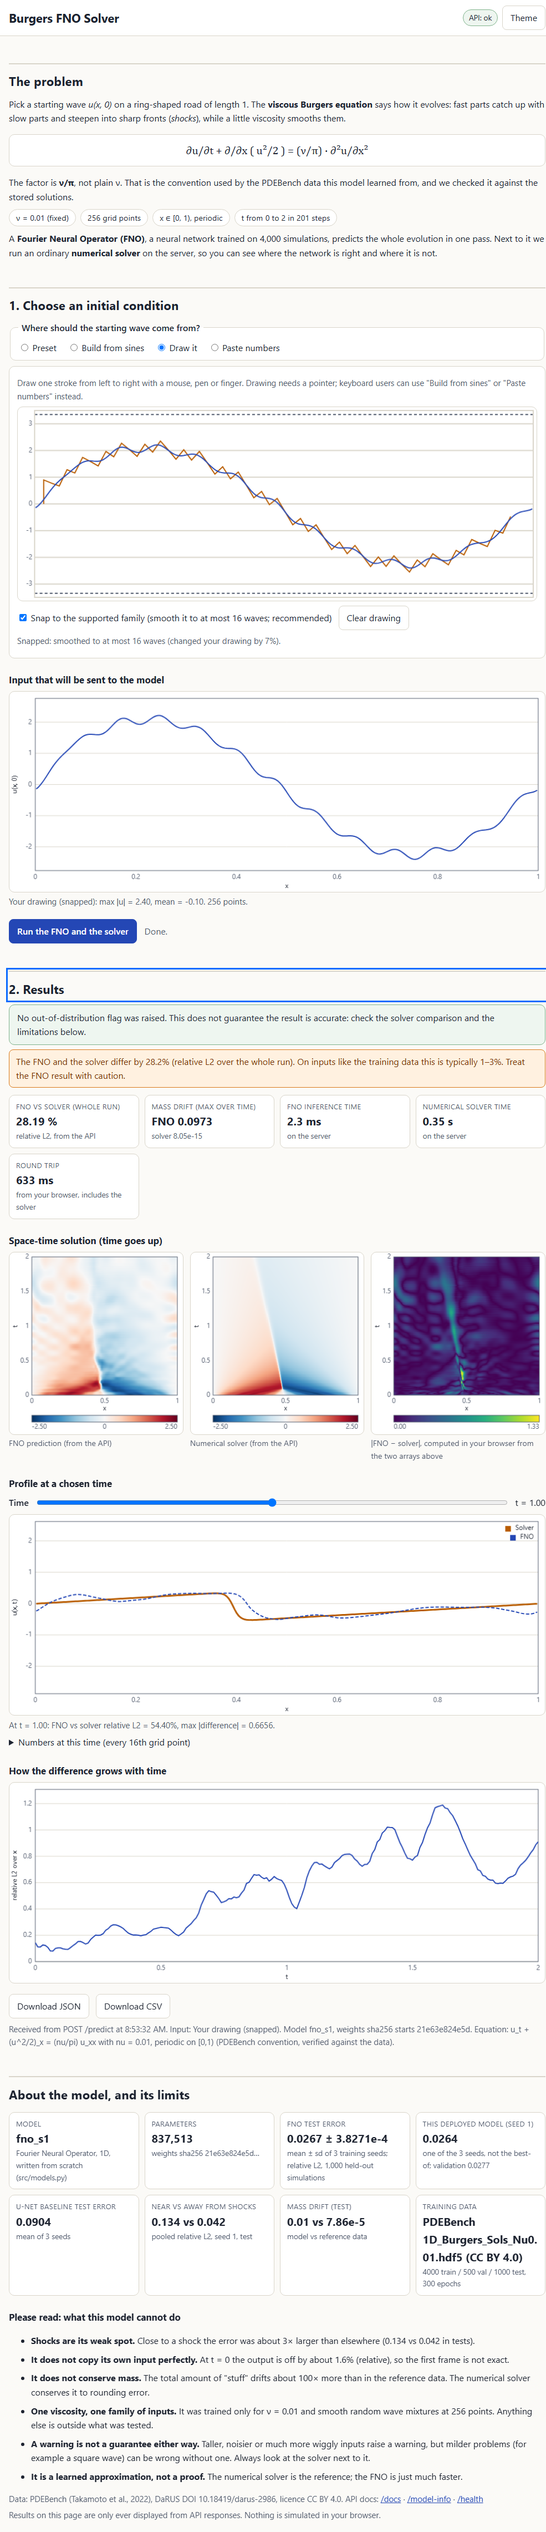
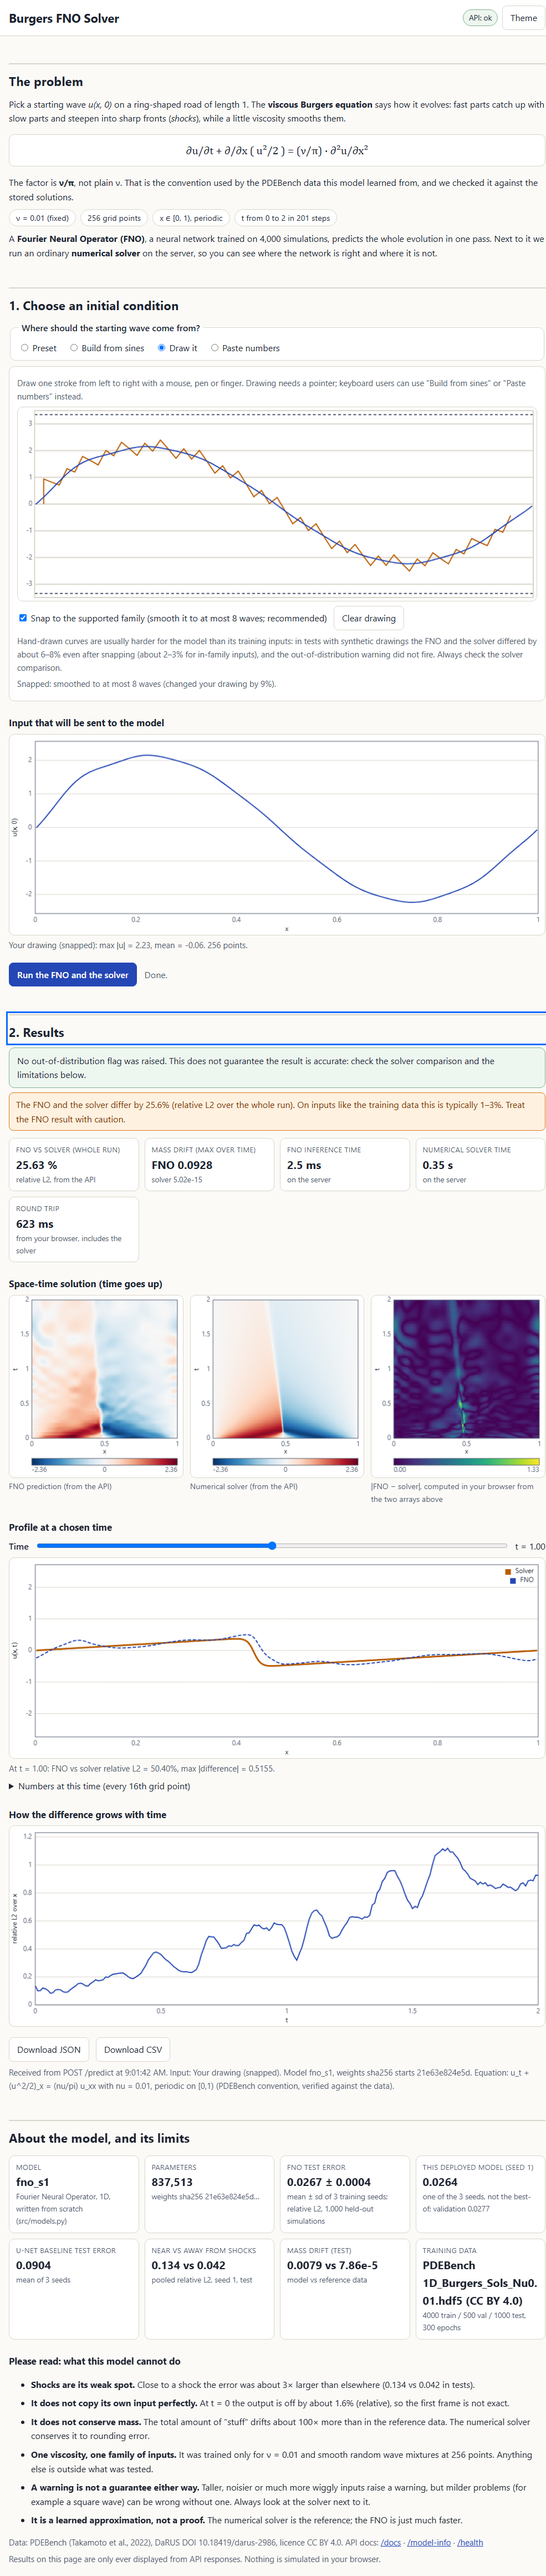
README, explainer update, final screenshots, WORKLOG/TIMELINE

diff --git a/docs/process_explained.html b/docs/process_explained.html
@@ -225,8 +225,8 @@ Written 9 Nov 2026, about 8 hours into the 72-hour clock (started 15:03 IST). Ev
 <tr><td>M1 data and split</td><td>10 Nov 05:03</td><td class="good">done 20:07</td></tr>
 <tr><td>M2 models and evaluation</td><td>10 Nov 21:03</td><td class="good">done 21:13</td></tr>
 <tr><td>M3 backend (local only)</td><td>11 Nov 05:03</td><td class="good">done 23:09 (tested locally; not deployed)</td></tr>
-<tr><td>M4 live skeleton</td><td>11 Nov 11:03</td><td>not started</td></tr>
-<tr><td>M5 front end</td><td>11 Nov 21:03</td><td>not started</td></tr>
+<tr><td>M4 live skeleton</td><td>11 Nov 11:03</td><td class="bad">blocked: Hugging Face now charges for Docker Spaces (HTTP 402)</td></tr>
+<tr><td>M5 front end</td><td>11 Nov 21:03</td><td class="good">built and tested locally (10 Nov); not deployed</td></tr>
 <tr><td>M6 final commit</td><td>12 Nov 09:03</td><td>not started</td></tr></table>
 <div class="kid">So far we built the "ripple guesser" and checked it. Next we put it behind a website, so anyone can draw a wave and see the guess, next to the slow careful answer, with a warning light for weird drawings.</div>
 

diff --git a/README.md b/README.md
@@ -1,10 +1,219 @@
 # burgers-fno-service
 
-PDE solutions as a service: a Fourier Neural Operator (FNO) trained on a PDEBench 1D Burgers dataset,
-served by a FastAPI app. **Work in progress. Nothing has been trained or deployed yet.**
+PDE solutions as a service: a Fourier Neural Operator (FNO) trained on a PDEBench 1D Burgers dataset, served by a
+FastAPI app with a built-in web page. You give it an initial condition; it returns the solution over time, next to a
+numerical solver's solution, an error map, and a warning when the input is outside what the model was trained on.
 
-Status of every claim in this README will be recorded in the final version under
-"Verified / Not verified / Failure modes". Until then, treat nothing here as a result.
+> **Status (10 Nov 2026):** the model, API and web page work **locally and in a local Docker container**. It is
+> **not deployed**: Hugging Face now requires a paid PRO subscription for Docker Spaces on the free CPU tier (the API
+> returned `402 Payment Required`), and I did not pay or switch hosts without you. There is **no live URL** yet.
+> See [Deployment](#deployment).
 
-Data: PDEBench (Takamoto et al., 2022), DaRUS DOI 10.18419/darus-2986, licence CC BY 4.0.
-See TIMELINE.md for the build log and deadlines.
+## 1. The problem and the equation
+
+The 1D viscous Burgers equation, on the periodic domain x in [0, 1), t in [0, 2]:
+
+```
+du/dt + d/dx( u^2 / 2 )  =  (nu / pi) * d^2u/dx^2        with nu = 0.01
+```
+
+Note the factor **nu/pi**, not plain nu. That is the convention in the PDEBench data. It was **checked against the
+data**, not assumed: our solver, started from stored initial conditions, was compared with the stored solutions under
+four conventions on 3 validation samples (256 cells, relative L2 over the whole trajectory):
+
+| convention | relative L2 |
+|---|---|
+| `a=1`, nu_eff = nu/pi (used) | 0.0022 to 0.0026 |
+| `a=1`, nu_eff = nu | 0.066 to 0.164 |
+| `a=2`, nu_eff = nu | 0.157 to 0.634 |
+| `a=2`, nu_eff = nu/pi | 0.173 to 0.676 |
+
+(`a` multiplies the flux, i.e. `a=2` is the `d/dx(u^2)` form. Numbers: `reports/solver_check_A.txt`.)
+
+Task: initial condition `u(x,0)` (256 points) -> all 201 frames `u(x, 0.01 k)`, `k = 0..200`, in one forward pass.
+
+## 2. Data
+
+- **PDEBench** (Takamoto et al., NeurIPS 2022 Datasets & Benchmarks), DaRUS DOI
+  [10.18419/darus-2986](https://doi.org/10.18419/darus-2986), **licence CC BY 4.0** (read from the DaRUS metadata).
+  Attribution is required; please cite the PDEBench paper if you reuse the data.
+- File used: `1D_Burgers_Sols_Nu0.01.hdf5`, 8,232,968,312 bytes, md5 `e6d9a4f62baf9a29121a816b919e2770`. Size and md5 were
+  checked against the DaRUS API. Layout: `tensor` (10000, 201, 1024) float32, `x-coordinate` (1024), `t-coordinate` (202, one
+  more than the frames; frame k is t = 0.01 k, confirmed by the solver), attribute `Nu = 0.01`. No NaN or inf. Values in
+  [-3.35, 3.41].
+- Not committed (`data/` is git-ignored). `scripts/download_data.py` downloads it with resume and verifies size and md5.
+- **Split** (by sample, seed 0, `src/data.py`): 1,000 test, 500 validation, the rest a training pool of which the **first 4,000**
+  are used. The split file is `splits/burgers_nu0.01_seed0.json`; a test checks it is disjoint and reproducible.
+  Every 4th grid point is kept (256 points, point samples, no anti-aliasing filter).
+- **Leakage check:** no validation or test initial condition is within 0.1% (relative L2) of any training one (nearest: 2.4% for test).
+- **Test-set discipline:** the test set was written to disk with the other splits, then not used for any decision. It was
+  evaluated **once**, after the models and checkpoints were frozen. The validation-based checkpoint choice makes
+  *validation* numbers slightly optimistic; test numbers are not affected by it. Full disclosure: before that, the subset script printed the test array's min, max and NaN count, and
+  the index-mapping and duplicate checks read test *initial conditions* (never test solutions for any model decision). A later "t = 0 skip connection"
+  idea was **not** tried so the test run stays valid.
+
+## 3. Models and training
+
+- **FNO** (`src/models.py`, written from scratch, follows the FNO paper's structure; not compared line by line with the
+  reference implementation): lift (u, x) -> 64 channels, 4 spectral layers keeping 24 Fourier modes + 1x1 skip convolutions,
+  GELU, head 64 -> 128 -> 201 (time as output channels). **837,513** parameters.
+- **U-Net baseline** (same file): 3 down/up levels, base 32 channels, circular padding. **1,067,241** parameters.
+- Training (`scripts/train.py`): relative L2 loss over the whole trajectory, Adam lr 1e-3 with cosine decay, weight decay
+  1e-5, batch 32, **300 epochs**, 4,000 training samples, 3 seeds (0, 1, 2) each, checkpoint with the lowest validation error.
+  FNO ~1.4 s/epoch (about 7 min per run), U-Net ~2.8 s/epoch (about 13.5 min per run), about 1 GB GPU memory. The runs are resumable.
+  Logs: `logs/train_*.log` (git-ignored; the summarised results are in `reports/`).
+- Both models were still improving at the end (best epoch 297 or 298 of 300), so they are probably not fully trained.
+
+## 4. Results (test set, 1,000 held-out simulations)
+
+Metric: **relative L2** per sample, `||pred - true||_2 / ||true||_2`, norm over (t, x), averaged over samples; spread is the
+sample standard deviation over the 3 training seeds (`src/models.py::rel_l2`, `scripts/evaluate.py`).
+
+| model | mean | median | 95th percentile |
+|---|---|---|---|
+| copy the initial condition | 1.158 | 1.033 | 2.617 |
+| per-sample constant = initial-condition mean | 0.456 | 0.382 | 0.985 |
+| U-Net | 0.0904 +- 0.0053 | 0.0690 | 0.2710 |
+| **FNO** (mean +- sd over 3 seeds) | **0.0267 +- 0.0004** | 0.0211 | 0.0654 |
+
+The FNO is about **3.4x** more accurate than the U-Net, with a spread far smaller than the gap. Validation shows the same
+(FNO 0.0279 +- 0.0004, U-Net 0.0966 +- 0.0053). The deployed model is **seed 1**, listed separately and *not* a best-of choice:
+test 0.0264, validation 0.0277 (seeds 0 and 2 test 0.0271 and 0.0265).
+
+**Error by time** (mean over seeds, test; the time is t = 0.01 k):
+
+| k (t) | 1 (0.01) | 10 (0.1) | 50 (0.5) | 100 (1.0) | 200 (2.0) |
+|---|---|---|---|---|---|
+| copy the initial condition | 0.084 | 0.589 | 1.281 | 1.604 | 2.013 |
+| IC-mean constant | 0.680 | 0.628 | 0.441 | 0.336 | 0.236 |
+| U-Net | 0.0279 | 0.0495 | 0.0745 | 0.1020 | 0.1399 |
+| FNO | 0.0137 | 0.0222 | 0.0279 | 0.0268 | 0.0392 |
+
+**Near vs away from shocks** (pooled relative L2; "near" = within 5 grid points of a point where the true slope is below -20,
+about 2.2% of points; this rule was chosen by me and not tuned):
+
+| | near shocks | away |
+|---|---|---|
+| FNO | 0.1342 +- 0.0005 | 0.0421 +- 0.0005 |
+| U-Net | 0.2363 +- 0.0050 | 0.0956 +- 0.0041 |
+
+**Mass conservation** (max over time of |M(t) - M(0)|, M = sum(u) dx, mean over samples): FNO 0.0080 +- 0.0001, U-Net
+0.0285 +- 0.0023, reference data 7.9e-5, our solver about 1e-13. **The networks do not conserve mass** (about 100x the data's drift for the FNO).
+
+**Solver as a reference:** on 3 validation samples at the data's own 1024 cells the solver matches the stored solution to
+relative L2 0.0002 to 0.0005 (`reports/solver_check_B.txt`). That supports the equation and the time axis; it is partly shared numerics
+with the data generator, so it is not independent proof. A 3-case FNO-vs-solver spot check is in `reports/spotcheck.png`.
+
+## 5. Where it fails (measured)
+
+Details in `reports/validate_m2.txt` and `reports/ood_eval.txt`; FNO error against solver truth on synthetic inputs:
+
+| input | FNO relative L2 | OOD flag raised |
+|---|---|---|
+| in-family control | 0.027 | 0.2% (false alarms on 500 validation inputs) |
+| smooth bump | 0.017 | 0% |
+| square wave | 0.110 | 0% |
+| amplitude x2 / x3 | 0.100 / 0.195 | 28% / 64% |
+| mean offset +1.5 / +3 | 0.055 / 0.089 | 12% / 86% |
+| white noise | 0.708 | 100% |
+| 40 or 100 waves | about 1.5 (worse than predicting zero) | 100% |
+| hand-drawn-like curves, snapped to <= 8 waves | median 0.078, p90 0.130 | 0% |
+
+- **Shocks:** error about 3x larger near them (section 4).
+- **t = 0:** the output reproduces its own input to only about 1.6% (relative), i.e. the first frame is not exact.
+- **Mass:** not conserved (section 4).
+- **Scope of training:** one viscosity (0.01), one family of smooth sine-mixture initial conditions, 256 points, t in [0, 2]. Anything else is untested.
+- **The out-of-distribution flag is weak:** it compares amplitude, mean and high-frequency energy with the training range. It catches noise and very wiggly inputs, but it
+  *misses* moderate failures (square wave, hand-drawn curves). **No flag does not mean accurate.** The web page adds a second warning when FNO and solver disagree by more than 6%.
+- **Resolution:** works at 256 (trained) and, zero-shot, at 512 points (validation relative L2 0.0271); other lengths are rejected. The U-Net fails at 512 (0.56).
+- **Robustness checks that passed:** an independent numpy recomputation of the metric matches (0.027654); processed arrays equal the raw rows;
+  feeding another sample's initial condition gives error 1.92 (the model uses its input); 1% input noise changes the output by 0.24%;
+  the error is smallest at zero time offset; shifting the wave around the ring leaves the error unchanged.
+
+## 6. What is verified, and what is not
+
+| Verified (evidence in this repo) | Not verified |
+|---|---|
+| Dataset size and md5; split disjointness; no near-duplicate initial conditions | **Any live deployment** (none exists) |
+| Equation convention (nu/pi) against the data | **Published comparison**: no reliable like-for-like numbers found. A garbled table suggested PDEBench FNO nRMSE about 7.8e-3 and U-Net about 0.22 for nu = 0.01, but the labelling is doubtful and the protocols differ (autoregressive, more data, 1024 points). See `reports/published_comparison.md`. **Check the PDEBench appendix yourself before quoting any comparison.** |
+| Test-set errors, 3 seeds, one evaluation | Behaviour at other viscosities or other initial-condition families |
+| API matches the offline checkpoint (max abs difference 7e-7 locally and in Docker) | Latency and memory on a free cloud host (laptop numbers only) |
+| Web page behaviour in a real Chromium browser (Edge, headless): run, OOD banner, 375 px width with no overflow, keyboard skip link, mouse drawing, paste errors, CSV/JSON downloads, error state | Firefox, Safari, touch input, screen readers |
+| WCAG AA contrast of the colour tokens (computed) | Colour-blind simulation of the heatmaps |
+| Docker image builds and runs locally (319 MB, 183 MiB memory in use) | `deploy/Dockerfile.render` and `render.yaml` (not built or tested) |
+| 32 automated tests | Bitwise reproducibility across GPUs |
+
+## 7. Speed and memory (this laptop: i7-13650HX, RTX 4050 Laptop 6 GB, 15.6 GB RAM)
+
+- FNO inference, one input, CPU, 1 or 2 threads: 1.8 ms typical (p95 2.1 ms); 4.5 ms for 8 inputs. The GPU is no faster for one input (4.2 ms). 14 threads were *slower* (3.0 ms), so the app defaults to 2 threads.
+- Numerical solver (numpy, 256 cells, one input): about 0.4 to 0.8 s; the FNO is roughly 200x faster, but the solver is not optimised.
+- Over HTTP locally: `/predict` about 64 to 74 ms median, mostly JSON (463 kB); with the solver about 0.9 s.
+- Memory: about 530 MB with the large CUDA build of torch on the laptop; 183 MiB for the CPU-only Docker container.
+- Cold start of the process including `import torch`: about 1.5 s of import. Free-host cold starts are unmeasured.
+
+## 8. Using it
+
+Web page at `/`, API docs at `/docs`.
+
+```
+POST /predict   {"u0": [256 numbers (or 512)], "include_solver": true}
+GET  /model-info    GET /health    GET /api
+```
+
+`/predict` returns `x`, `t`, `fno.u` (201 x nx), optionally `solver.u`, `ood` (`is_ood`, `reasons`, features), and model identification
+(weights sha256). Inputs must be finite, |u0| <= 100, length 256 or 512; otherwise HTTP 422.
+
+## 9. Setup (Windows, Python 3.13) and reproduction
+
+```bash
+py -3.13 -m venv .venv
+.venv\Scripts\python -m pip install -r requirements.lock.txt   # CUDA 12.6 torch 2.14.1; see scripts/install_env.sh for the resumable variant
+.venv\Scripts\python scripts\download_data.py                  # 8.23 GB, resumable, md5-verified
+.venv\Scripts\python scripts\make_subset.py --n-train 4000 --x-stride 4
+bash scripts/train_all.sh                                      # 6 runs, about 1h50m on the laptop above
+.venv\Scripts\python scripts\build_model_package.py            # packs model/fno_s1.pt and OOD statistics
+.venv\Scripts\python -m uvicorn app.main:app --port 8000       # then open http://127.0.0.1:8000
+.venv\Scripts\python -m pytest                                 # tests (the browser tests need Node >= 22 and Edge or Chrome)
+```
+
+Key versions (full list in `requirements.lock.txt`; serving subset in `requirements-serve.txt`): torch 2.14.1 (cu126 for training,
+CPU for serving), numpy 2.5.4, h5py 3.16.0, scipy 1.18.1, matplotlib 3.11.2, fastapi 0.162.2, starlette 1.10.0, uvicorn 0.54.0,
+pydantic 2.14.3, pytest 9.2.0, huggingface_hub 2.4.0. The serving pins are not hash-locked.
+
+`scripts/evaluate.py` refuses to open the test split without `--final`. `scripts/validate_m2.py`, `scripts/bench_latency.py`,
+`scripts/ood_eval.py`, `scripts/snap_eval.py`, `scripts/ui_check.mjs` reproduce the other reports.
+
+## 10. Deployment
+
+- **Hugging Face Spaces (Docker, free CPU):** attempted on 2026-11-10 with `scripts/deploy_hf.py`. The API answered
+  `402 Payment Required` ("hosting Gradio and Docker Spaces on free cpu-basic requires a PRO subscription"). Nothing was created. The script
+  and `deploy/Dockerfile` are ready; the Docker image was built and passed a live check locally (live-vs-offline max abs difference 7.77e-7). A Static
+  Space is free but cannot run this API.
+- **Render (free web service), untested:** `render.yaml` and `deploy/Dockerfile.render` are prepared. It needs this repository on GitHub (not pushed). Reported free-tier
+  limits from web searches, **unverified**: 512 MB RAM (one source says 256 MB), 0.1 CPU, spin-down after 15 minutes idle, about a minute to wake. The container used 183 MiB.
+- **Local Docker:** `docker build -f deploy/Dockerfile -t burgers-fno <staged folder from scripts/deploy_hf.py --dry-run>`, then `python scripts/live_check.py http://127.0.0.1:<port>`.
+- `scripts/live_check.py <url>` is the end-to-end check to run against any deployment: it compares the served output with the original training checkpoint's output.
+
+## 11. Limits of this work
+
+- **Time:** a 72-hour window (start 9 Nov 15:03 IST) with limited hands-on time; M0-M3 and the front end were finished ahead of the plan, deployment was blocked by hosting cost.
+- **Compute:** one laptop GPU; one data file; 4,000 of the 10,000 training simulations used; 256 of 1,024 grid points; 300 epochs, not converged; 3 seeds.
+- **Scope kept fixed:** no retraining after the first test evaluation, no architecture change, one viscosity.
+- **Code licence:** not chosen yet (data: CC BY 4.0, PDEBench).
+
+## 12. Layout
+
+```
+app/            FastAPI app and static web page (index.html, app.js, lib.js, style.css)
+src/            models.py, solver.py, data.py, inference.py
+scripts/        download, subset, train, evaluate, validation, benchmarks, deploy, browser checks
+tests/          pytest (API, front end, contrast, solver/data) and tests/js (Node unit tests)
+model/          packaged FNO (seed 1), OOD statistics, model card (all numbers read from reports/)
+reports/        all measured results, screenshots; splits/ the split file; docs/ a plain-English explainer
+deploy/         Dockerfiles and the Space README; TIMELINE.md and WORKLOG.md log the schedule and decisions
+```
+
+## References
+
+- Takamoto et al., *PDEBench: An Extensive Benchmark for Scientific Machine Learning*, NeurIPS 2022 (Datasets & Benchmarks), arXiv:2210.07182.
+- Li et al., *Fourier Neural Operator for Parametric Partial Differential Equations*, ICLR 2021.

diff --git a/TIMELINE.md b/TIMELINE.md
@@ -12,8 +12,8 @@ Absolute clock times are provisional: they are pure elapsed-time conversions and
 | M2 Baselines, FNO trained, evaluated, physics checks | T+30 | 2026-11-10 21:03 | ~8 | 2026-11-09 21:13 (T+6h09m) | DONE (kept models; extra validation 23:03) |
 | M3 FastAPI backend working locally | T+38 | 2026-11-11 05:03 | ~3 | 2026-11-09 23:09 (T+8h05m) | DONE |
 | M4 Skeleton deploy, live URL with real inference | T+44 | 2026-11-11 11:03 | ~2 | | BLOCKED: HF Docker Spaces need PRO (402); host decision needed |
-| M5 Front end polish, solver comparison, OOD warnings | T+54 | 2026-11-11 21:03 | ~4 | | not started |
-| M6 Final verification, README, cleanup, FINAL COMMIT | T+66 | 2026-11-12 09:03 | ~3 | | not started |
+| M5 Front end polish, solver comparison, OOD warnings | T+54 | 2026-11-11 21:03 | ~4 | 2026-11-10 09:03 (T+18h) | DONE locally (not deployed) |
+| M6 Final verification, README, cleanup, FINAL COMMIT | T+66 | 2026-11-12 09:03 | ~3 | | README drafted; live verification blocked by M4 |
 | Buffer (no new features) | T+72 | 2026-11-12 15:03 | - | | - |
 
 Cut list, in order (propose, user approves): (1) freehand drawing; (2) multiple viscosities; (3) UI polish; (4) extra architectures; (5) reduced training data / fewer epochs, documented honestly.
@@ -37,3 +37,4 @@ Never cut: baseline, held-out evaluation, physics checks, live inference check, 
 - 2026-11-09 23:45 IST: M4 prep (no deploy, no token read): requirements-serve.txt (CPU torch), deploy/Dockerfile, deploy/SPACE_README.md, scripts/deploy_hf.py (--dry-run stages 12 files, 3.38 MB), .env.example + blank .env (git-ignored), root route. huggingface_hub 2.4.0 installed (small, lockfile updated). Waiting on gate (c) and the user filling .env.
 - 2026-11-10 00:02 IST: Docker local test PASSED: image burgers-fno-local 319 MB built from the staged 12 files (python:3.13-slim + CPU torch 2.14.1); container up in <1 s, live_check: max abs diff vs offline 7.77e-07, same sha256, HTTP /predict median 64 ms, container memory 183 MiB. Container removed, image kept. Docker Desktop was started by Claude at 23:57 on user request and is still running. Waiting for user: .env filled + run deploy_hf.py (public Space, name burgers-fno-service).
 - 2026-11-10 08:41 IST: deploy_hf.py run (user pre-authorised): HF 402 Payment Required for Docker Space on free tier. M4 BLOCKED (external). See WORKLOG.md.
+- 2026-11-10 09:03 IST: M5 (front end) DONE locally: static HTML/JS served by the app, 19/19 real-browser checks, 32 tests pass. M6 README drafted (final live verification blocked with M4). See WORKLOG.md.

diff --git a/WORKLOG.md b/WORKLOG.md
@@ -6,3 +6,5 @@ One line per autonomous decision made while the user was away. Newest at the bot
 - 2026-11-10 08:55: Drawing snap cutoff lowered 16 -> 8 waves after scripts/snap_eval.py (synthetic drawings, no test data): median FNO-vs-solver error 0.093 -> 0.078; even k<=3 leaves 0.058, so drawings are always harder than in-family inputs and the API OOD flag never fires on them (0- 2026-11-10 08:56: Found and fixed my own encoding slip: a Python edit script wrote an en dash with the Windows default codepage and left invalid UTF-8 in index.html; caught by the new tests. All later edits use explicit utf-8. All text files re-verified as valid UTF-8.
 - 2026-11-10 08:56: 30 tests pass (API, front end static checks, Node unit tests, real-browser end-to-end, real-browser error state with missing model).
 - 2026-11-10 09:01: Prepared Render fallback (render.yaml, deploy/Dockerfile.render, .dockerignore). Kept deploy/Dockerfile (HF variant, tested in Docker) unchanged. The Render files are NOT built or tested: Docker Desktop is off after the reboot and the user said not to restart it.
+- 2026-11-10 09:03: README drafted from numbers computed out of reports/*.json (not typed by hand); explainer rows updated (M4 blocked, M5 built locally). 32 tests pass; 19/19 real-browser checks pass; screenshots regenerated with the final code (reports/ui_*.png). Local uvicorn stopped; Docker Desktop not restarted.
+- 2026-11-10 09:03: Remaining items need a user decision (hosting) or a token/payment: step 1 (deploy) and step 3 (redeploy and live check) stay blocked. I am not inventing extra features (hard rule: no scope or architecture change).
